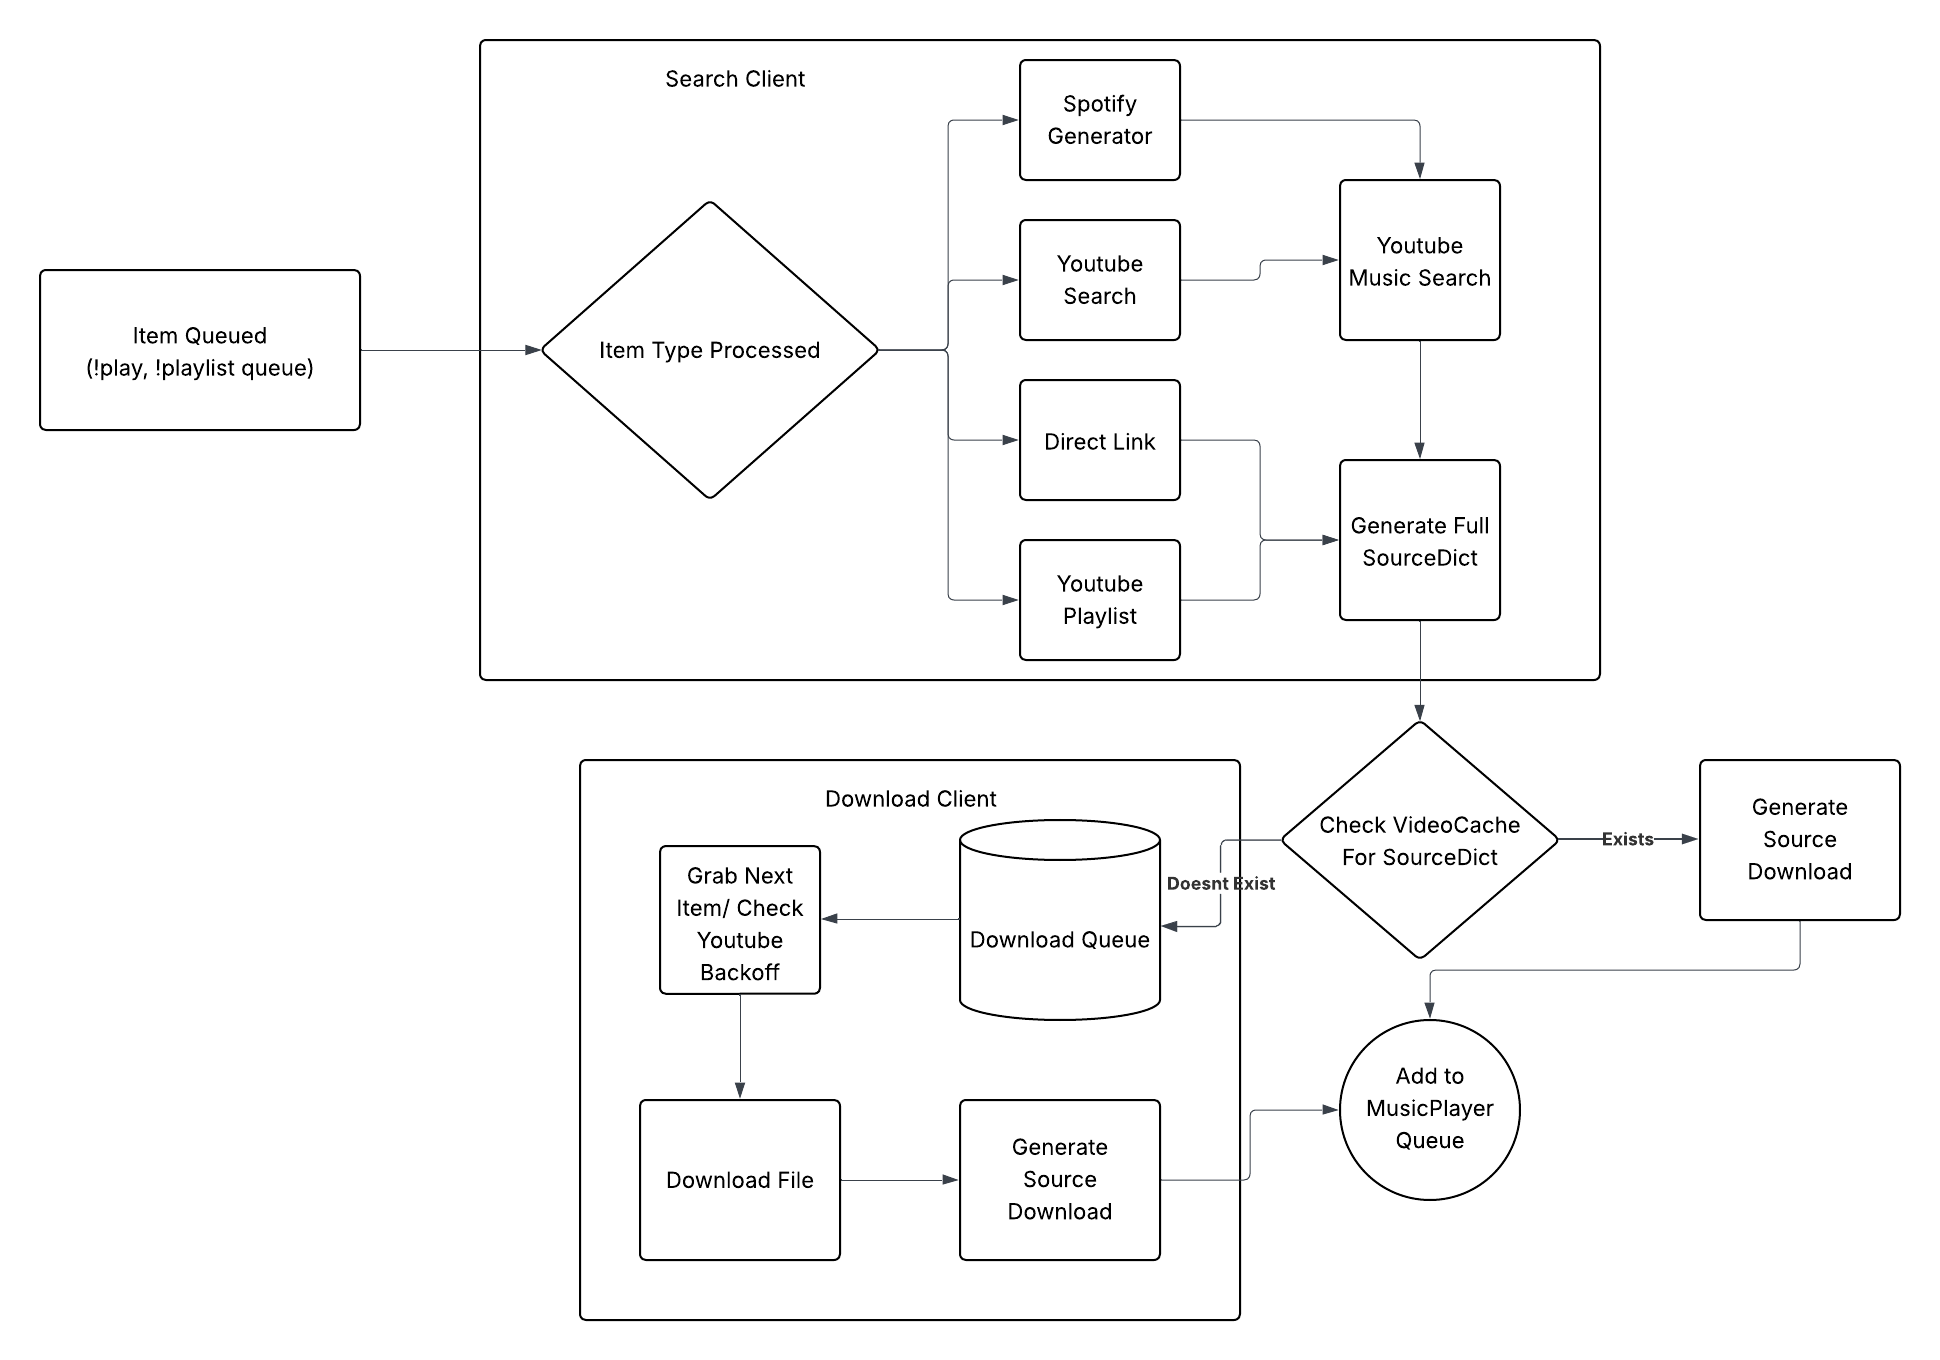
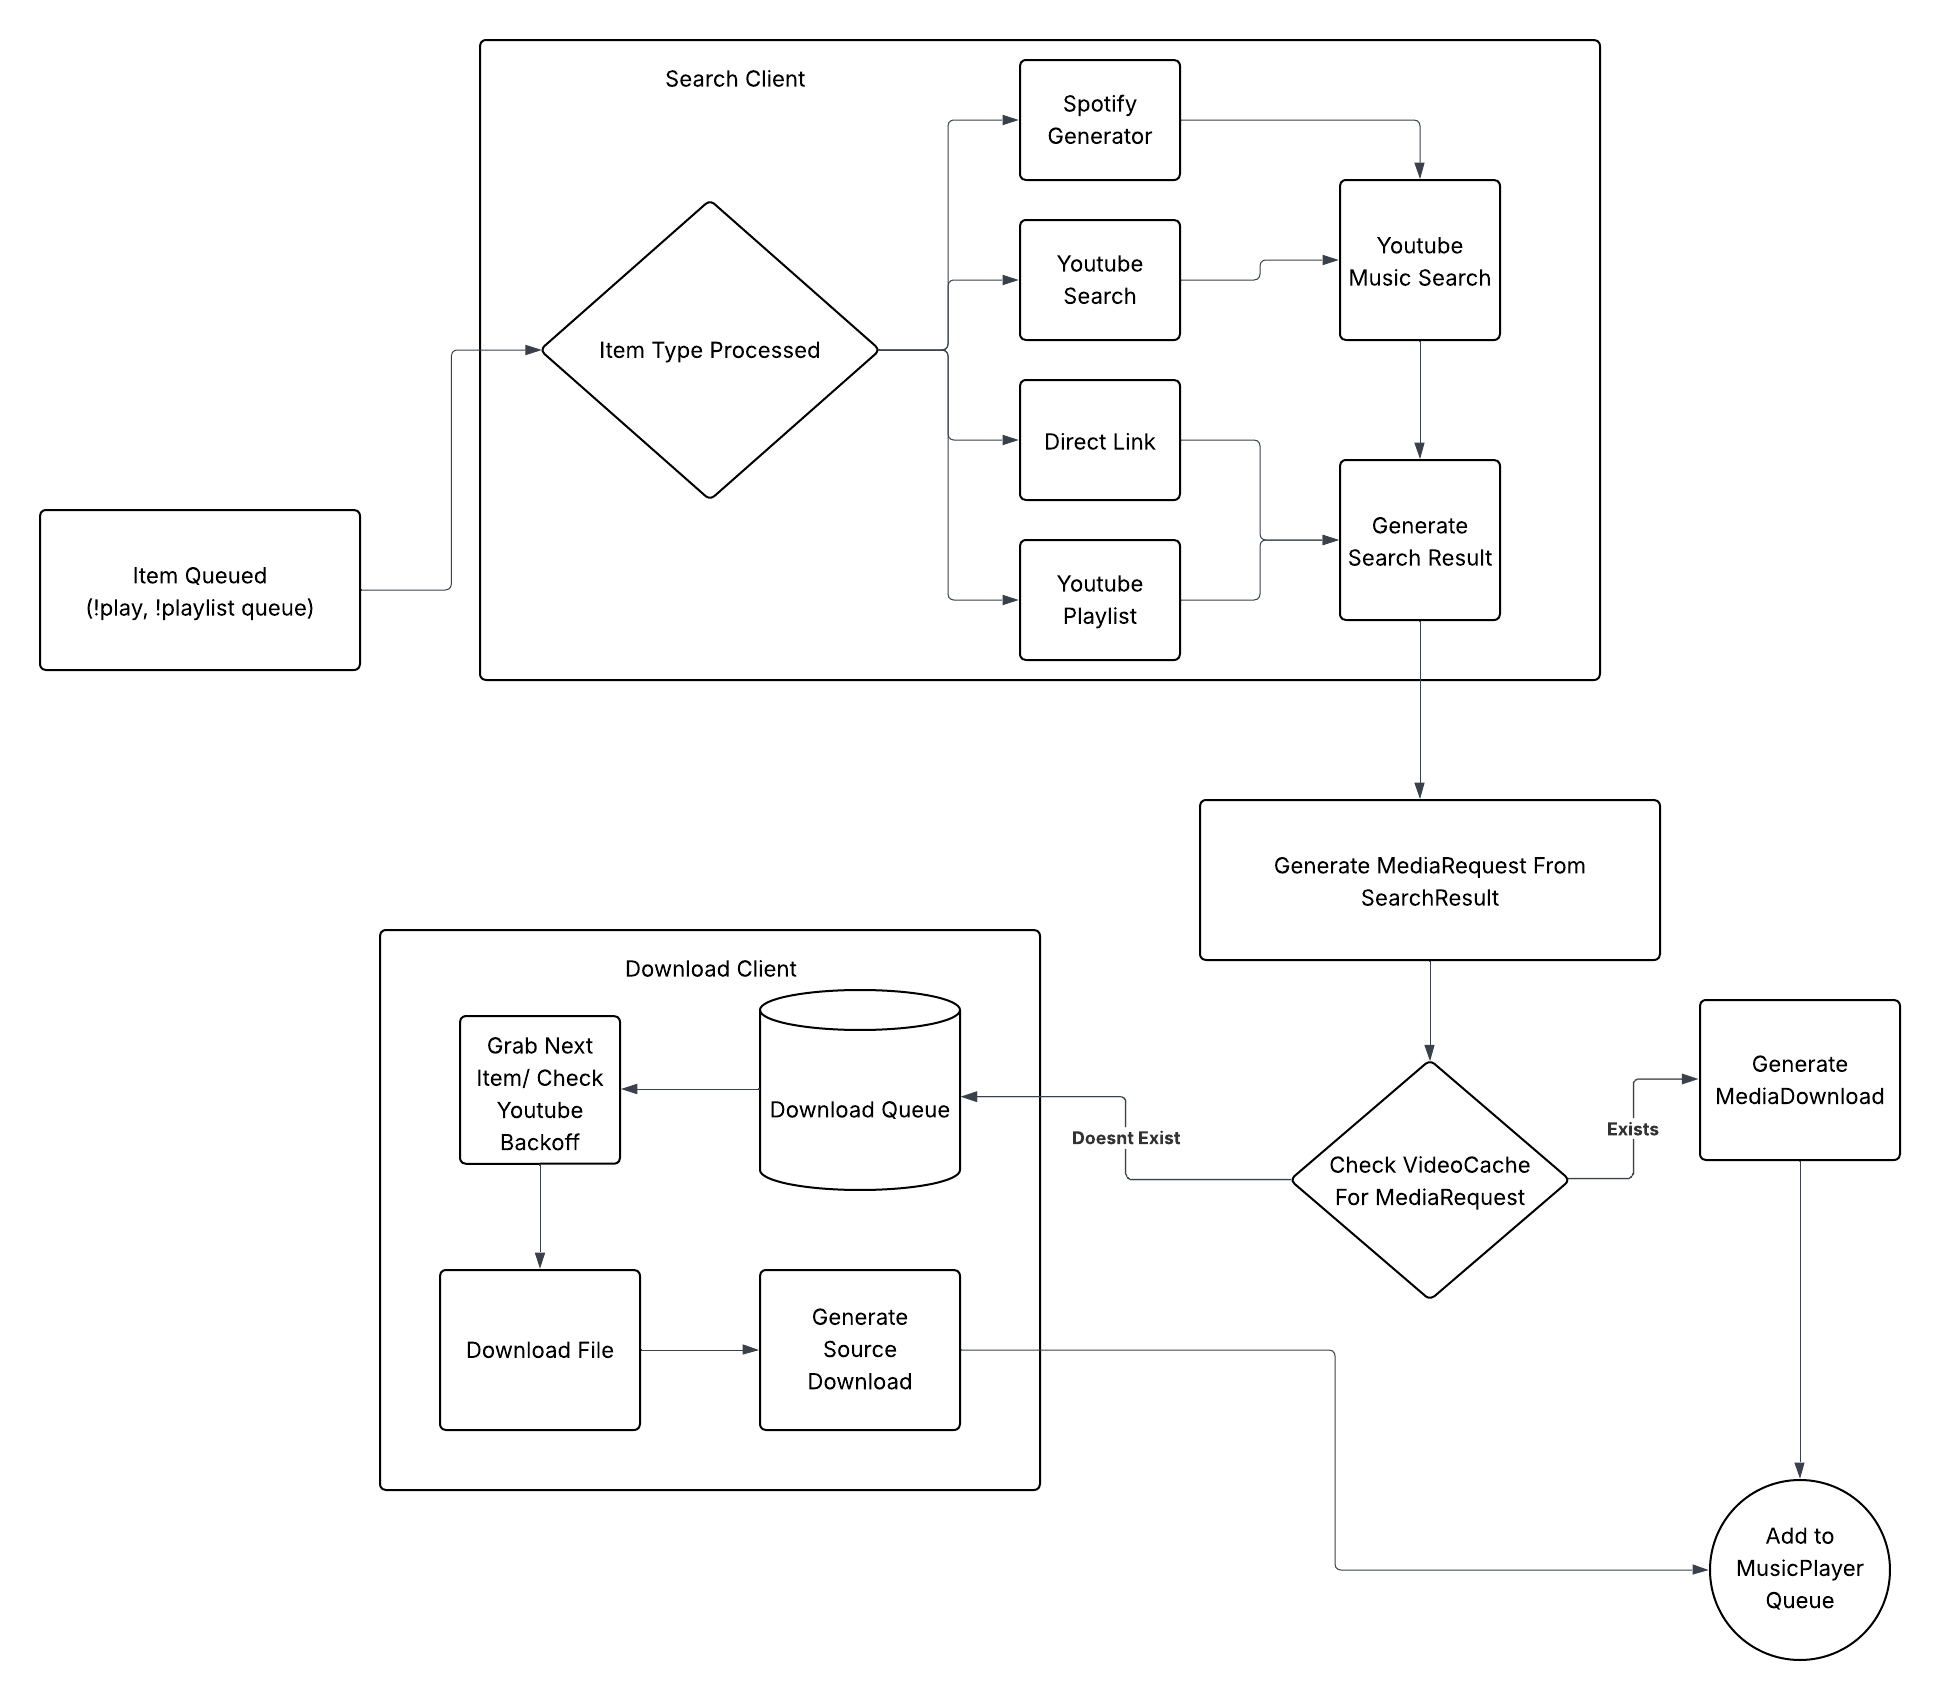
chore: bump version to 2.4.4 (#413)

diff --git a/CHANGELOG.md b/CHANGELOG.md
@@ -1,12 +1,33 @@
 # Changelog
 
+## 2.4.4
+
+General:
+- Update dependabot to run daily checks instead of weekly
+- Add KNOWN-ISSUES.md documentation file
+- Add support for DEVELOPMENT.md documentation
+
+Music:
+- Complete overhaul from single mutable to multi-mutable message architecture
+- Remove configurable `number_shuffles`, implement single shuffle with proper random seeding
+- Update to v0.1.3 with zero-padding support for position display
+- Add message not found error handling and HTTP server disconnect retries
+- Optimize message dispatch logic to delete removed messages in middle rather than editing all subsequent messages
+- Rework media request lifecycle to use DapperTable, maintaining message order consistency
+- Improve search result handling and message queue integration
+- Expose history playlist in commands, fix various playlist-related issues
+- Enhanced cache cleanup and backup storage handling
+- Remove search cache client functionality (migrated database schema)
+- Fix voice client checks on stop operations
+- Improved iterative message deletion on errors
+
 ## 2.4.3
 
 General:
 - Fixups for OTLP setup, added heartbeat metrics to multiple cogs
 - Add alembic database migration support
 
-Music
+Music:
 - Add s3 backups to cached files
 
 ## 2.4.2
